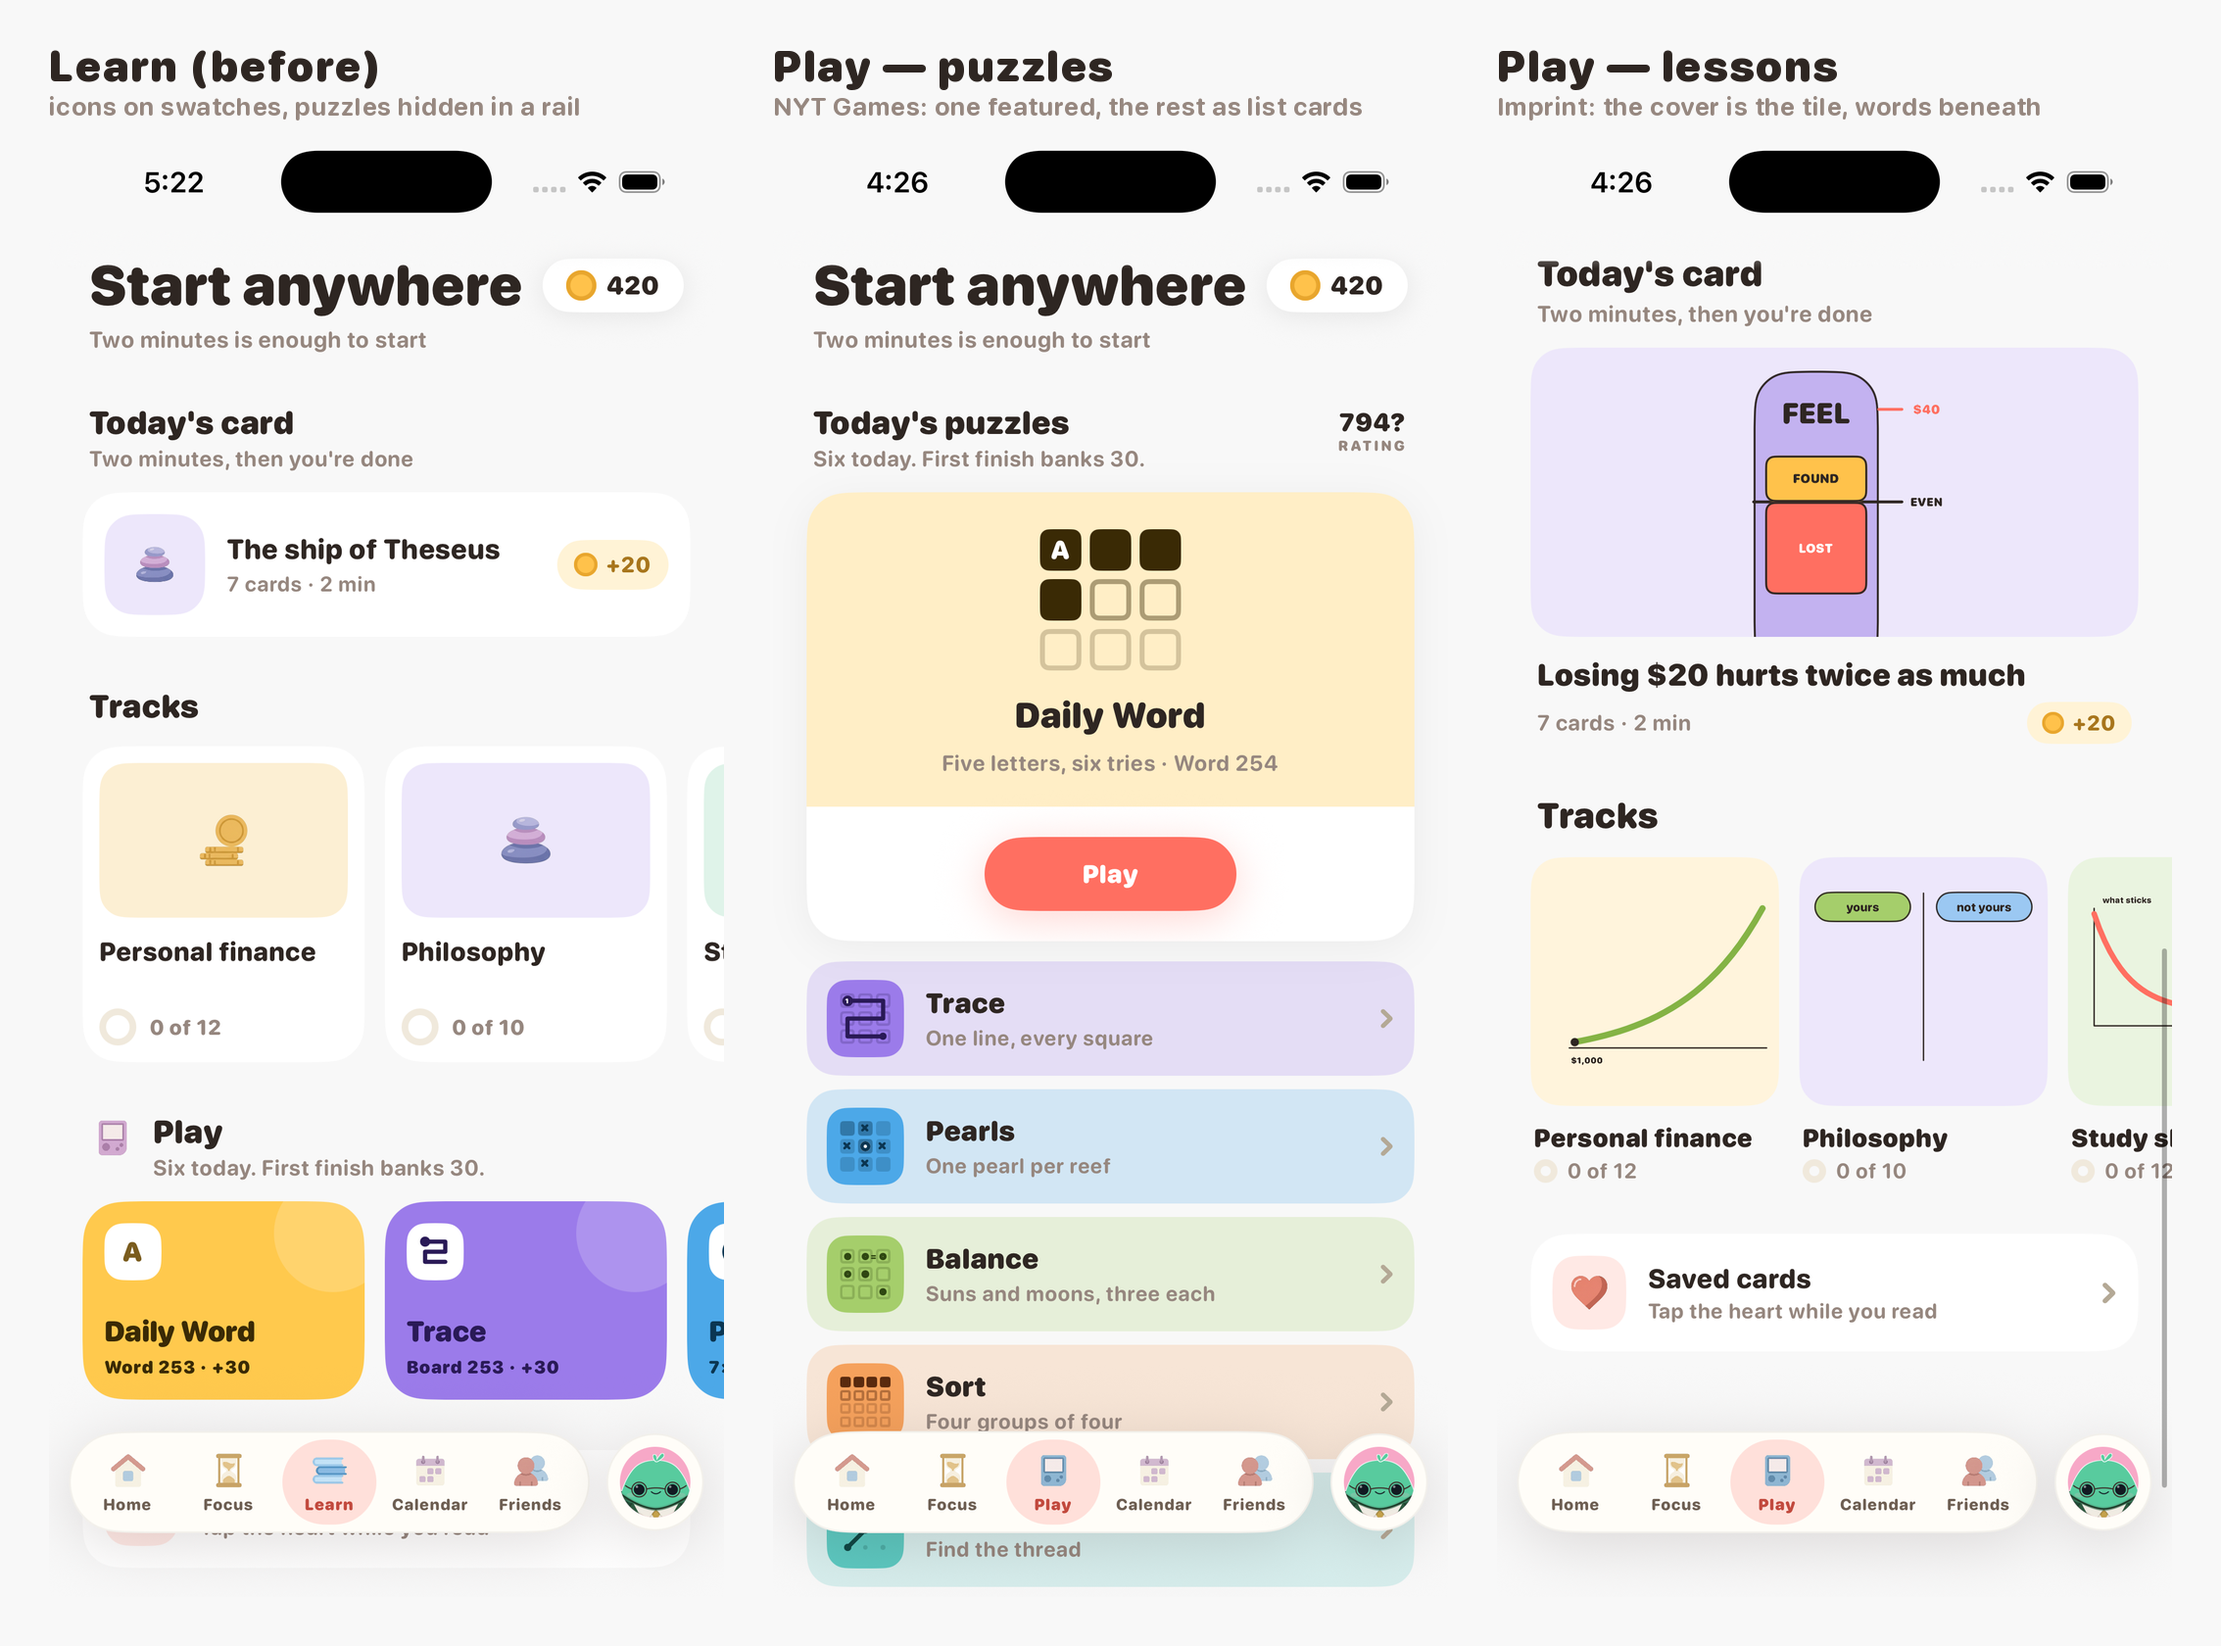
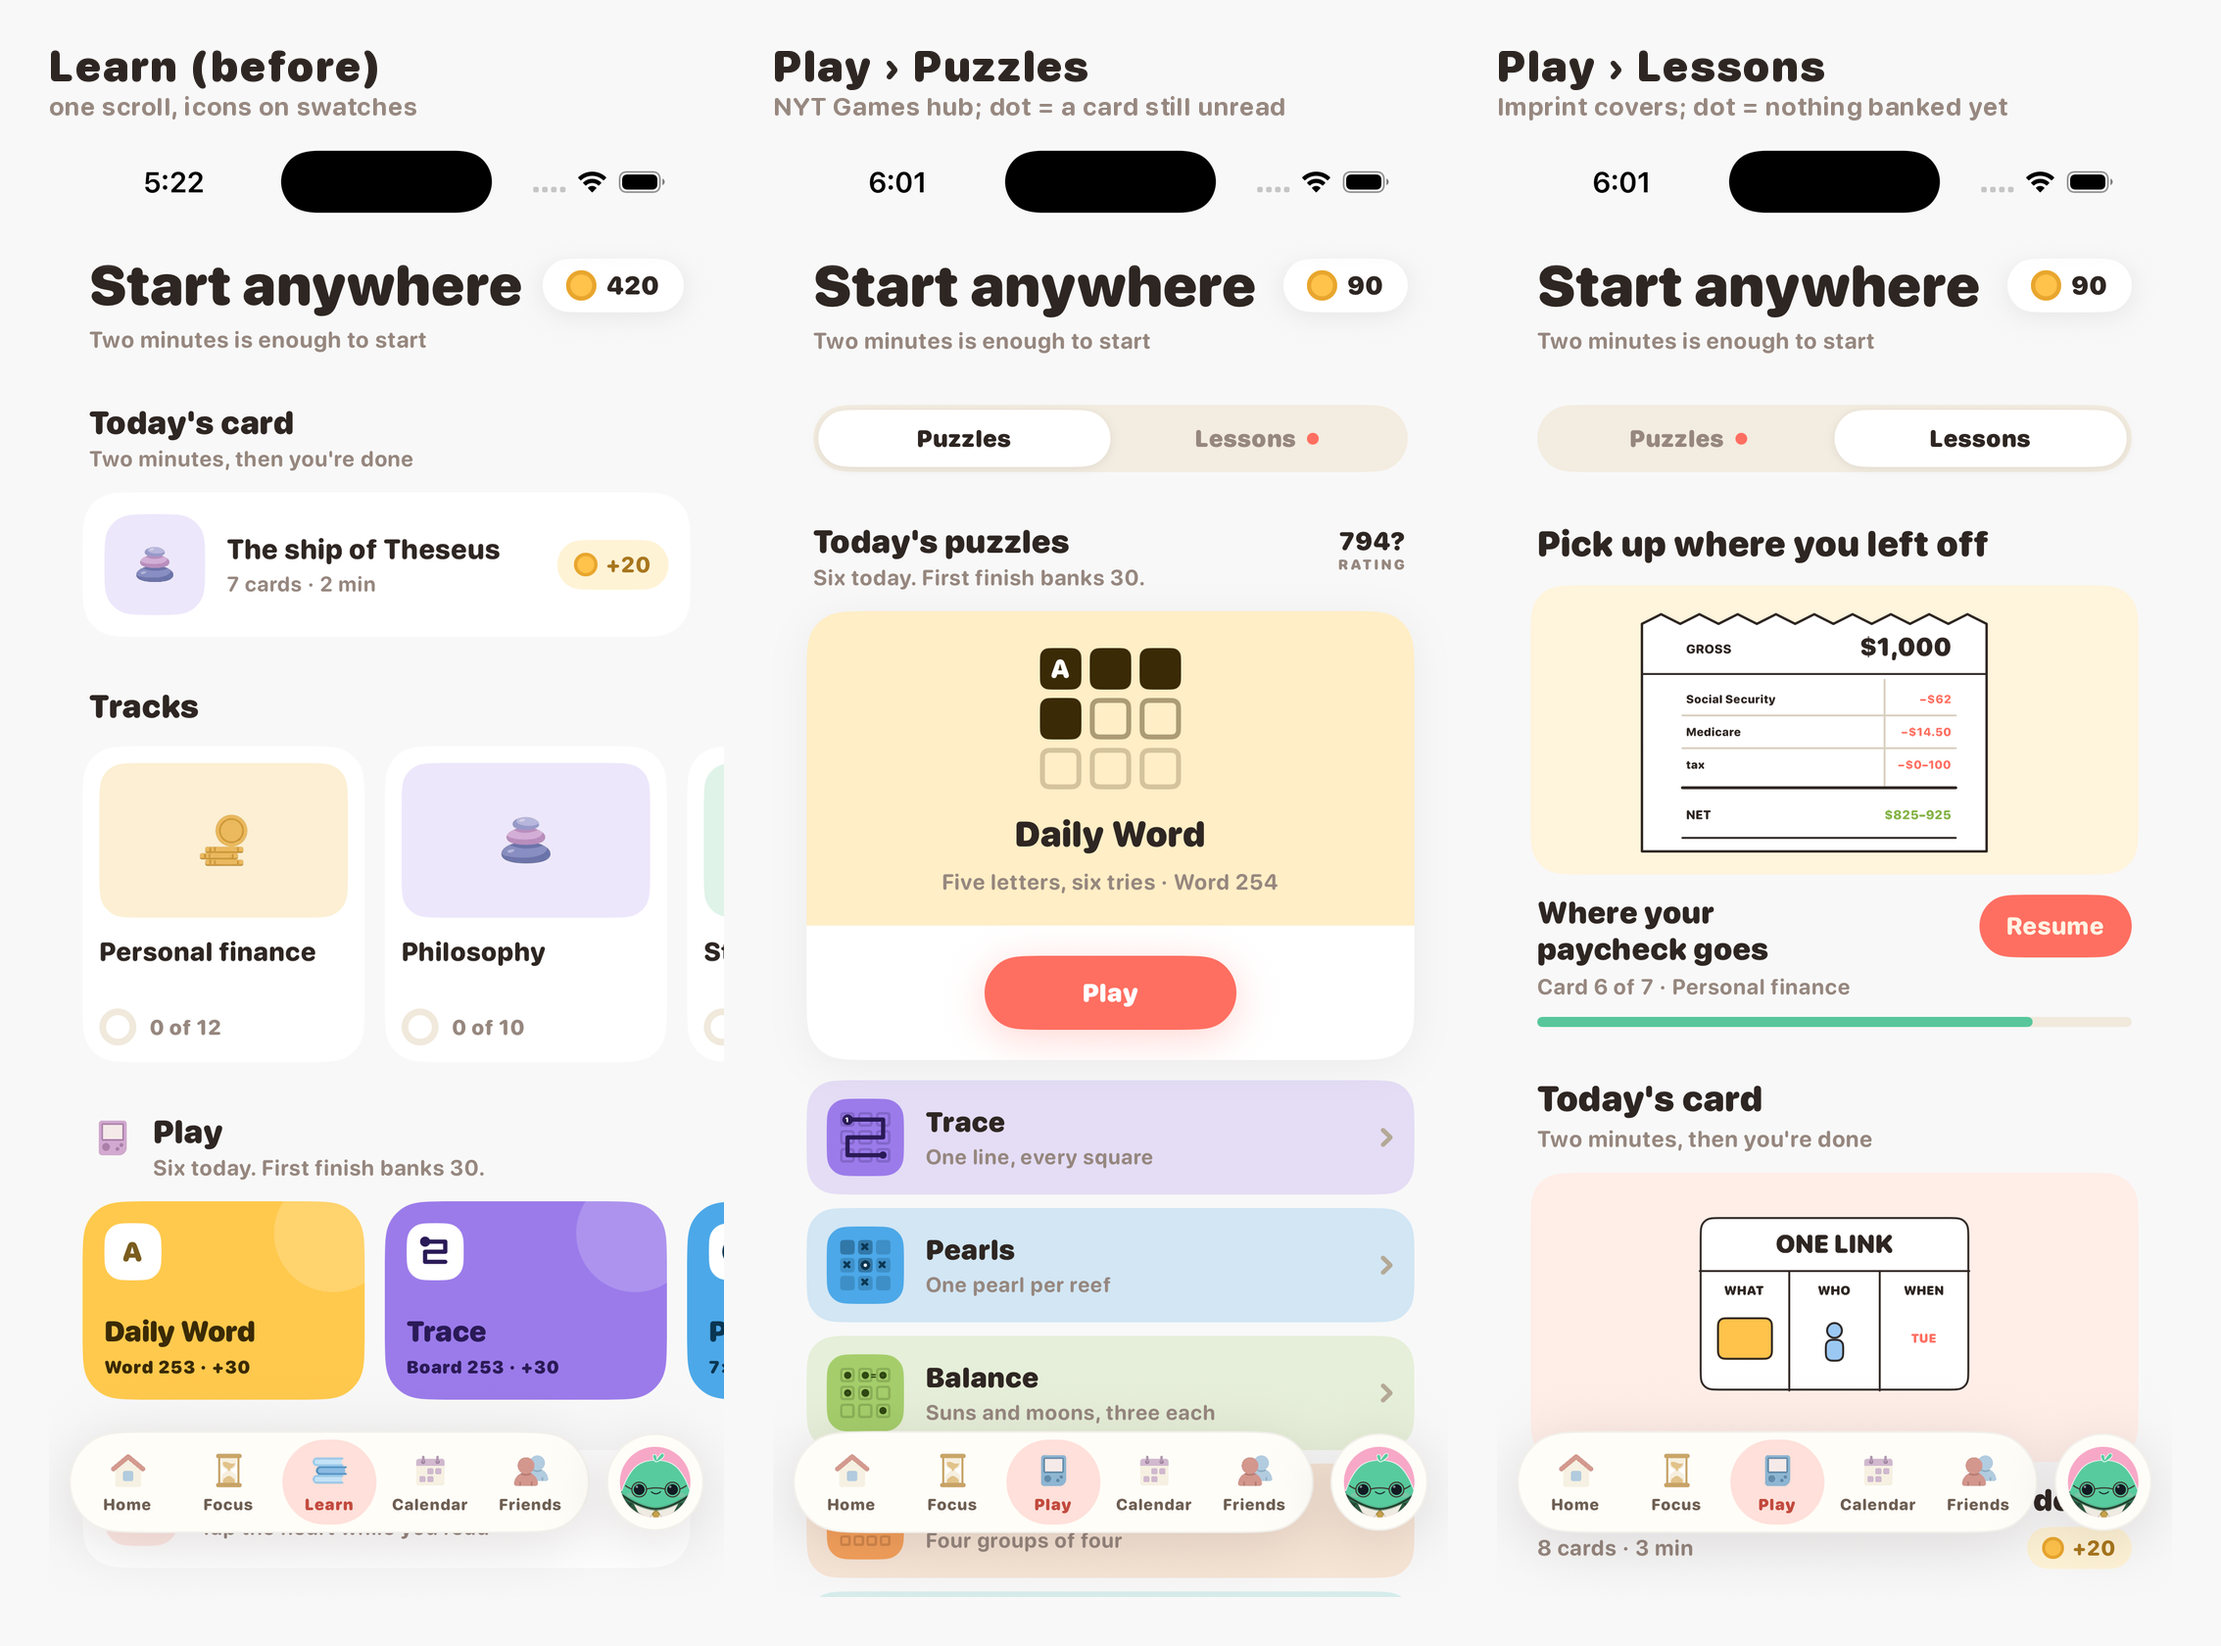
Play splits into Puzzles and Lessons, with a dot for whichever is still open
George: "do we not have a part for them to select whether play or learn?" There
was not — Play was one scroll, puzzles first, and a lesson-minded student passed
600pt of puzzles to reach today's card every time. A Puzzles / Lessons switch now
sits under the header: the Calendar's Week / Month control one size up, a sunk
track with the chosen half lifted onto card white. It remembers the last choice
and defaults to Puzzles for a new student. A coral dot on the other half means
its daily thing is still open — nothing banked, or the card unread — so neither
ritual disappears behind the switch. The segments are the nouns for the content
rather than Play / Learn, since the tab already says Play.

Found on the way: todaysCard seeded on String.hashValue, which Swift randomises
per process, so "today's card" was a different card on every launch. It sums
the day's scalars now and holds all day. And the shop's grid cards tell
VoiceOver kin or scene, which the KIN / SCENE tag had said to sighted eyes only.

test/ios-flows.sh: the lesson flow lands on the Lessons half first; shopshort
prefers an unaffordable kin (a sheet, which stays) over a scene (a 2.4s toast,
which one describe-all under load can miss) and asserts by polling.

diff --git a/ios/Sources/LearnView.swift b/ios/Sources/LearnView.swift
@@ -23,6 +23,16 @@ struct ReadingRequest: Identifiable, Equatable {
 struct LearnView: View {
     @EnvironmentObject var state: AppState
 
+    /// Which half of the tab is showing. Remembered, so a student who comes for
+    /// the lessons lands on the lessons — the one scroll this replaced put 600pt
+    /// of puzzles between them and today's card every single time.
+    @AppStorage("play.half") private var halfRaw = Half.puzzles.rawValue
+    private var half: Half { Half(rawValue: halfRaw) ?? .puzzles }
+    enum Half: String, CaseIterable {
+        case puzzles, lessons
+        var label: String { self == .puzzles ? "Puzzles" : "Lessons" }
+    }
+
     @State private var previewing: Lesson?
     /// Set by the preview sheet's Start, read once the sheet has finished dismissing.
     /// Presenting a cover while a sheet is still on screen drops the cover.
@@ -35,16 +45,20 @@ struct LearnView: View {
                 VStack(alignment: .leading, spacing: 30) {
                     header
 
-                    // First since 2026-09-10, when the tab became Play. The six
-                    // puzzles used to sit fifth, in a rail that hid four of them, under
-                    // a header that said Play inside a tab that said Learn. The
-                    // retention evidence is theirs (GAMES-PLAN.md §2), so they lead;
-                    // the lessons follow in the order they always had (PLAY-TAB.md).
+                    halfSwitch
+
+                    // Two halves behind one switch (2026-09-11). They were one scroll,
+                    // puzzles first — the retention evidence is theirs (GAMES-PLAN.md
+                    // §2) — but a lesson-minded student then scrolled past every puzzle
+                    // to reach today's card. Each half owns the screen now, and the
+                    // switch's dot says when the other half's daily thing is still open.
+                    if half == .puzzles {
                     VStack(alignment: .leading, spacing: 12) {
                         puzzlesTitle
                         puzzleHero
                         puzzleList
                     }
+                    } else {
 
                     if let cont = state.continueLesson {
                         VStack(alignment: .leading, spacing: 12) {
@@ -78,8 +92,10 @@ struct LearnView: View {
                     }
 
                     savedRow
+                    }
                 }
                 .padding(.top, 4)
+                .animation(.easeInOut(duration: 0.18), value: halfRaw)
                 .padding(.bottom, Theme.tabClearance)
             }
             .background(Theme.paper)
@@ -191,6 +207,50 @@ struct LearnView: View {
             }
         }
         .padding(.horizontal, 24)
+    }
+
+    // MARK: - Switch
+
+    /// The Calendar's Week / Month switch, one size up: a sunk track, the chosen
+    /// half lifted onto card white. A coral dot on the *other* half means its daily
+    /// thing is still open — the card unread, or nothing banked yet — so neither
+    /// ritual disappears behind the switch.
+    private var halfSwitch: some View {
+        HStack(spacing: 0) {
+            ForEach(Half.allCases, id: \.self) { h in segment(h) }
+        }
+        .padding(3)
+        .background(Capsule().fill(Theme.paperSunk))
+        .padding(.horizontal, 24)
+    }
+
+    private func segment(_ h: Half) -> some View {
+        let on = h == half
+        let open = h == .puzzles ? !state.playClaimedToday : !state.lessonDoneToday
+        return HStack(spacing: 6) {
+            Text(h.label)
+                .font(Theme.font(14, .black))
+                .foregroundStyle(on ? Theme.ink : Theme.muted)
+            if open && !on {
+                Circle().fill(Theme.coral).frame(width: 7, height: 7)
+            }
+        }
+        .frame(maxWidth: .infinity)
+        .frame(height: 34)
+        .background(
+            Capsule()
+                .fill(on ? Theme.card : .clear)
+                .shadow(color: on ? Theme.hex(0x2E2622).opacity(0.10) : .clear, radius: 3, y: 1)
+        )
+        .contentShape(Capsule())
+        .onTapGesture {
+            guard !on else { return }
+            UISelectionFeedbackGenerator().selectionChanged()
+            halfRaw = h.rawValue
+        }
+        .accessibilityElement(children: .ignore)
+        .accessibilityLabel(open && !on ? "\(h.label), something still open today" : h.label)
+        .accessibilityAddTraits(on ? [.isSelected, .isButton] : .isButton)
     }
 
     // MARK: - Continue
@@ -610,7 +670,10 @@ struct LearnView: View {
     private var todaysCard: Lesson? {
         let open = Catalog.lessons.filter { !state.completedLessons.contains($0.id) }
         guard !open.isEmpty else { return nil }
-        let seed = abs(state.game.effectiveDay.raw.hashValue)
+        // Not `hashValue`: Swift seeds String hashing per process, so today's card
+        // was a different card on every launch. Summing the scalars is the same
+        // number all day, which is the whole meaning of "today's".
+        let seed = state.game.effectiveDay.raw.unicodeScalars.reduce(0) { ($0 &* 31 &+ Int($1.value)) & 0xFFFFFF }
         let pick = open[seed % open.count]
         // Don't offer the same thing twice on one screen.
         if pick.id == state.continueLesson?.lesson.id

diff --git a/ios/Sources/KinShopView.swift b/ios/Sources/KinShopView.swift
@@ -772,10 +772,17 @@ private struct PickCard: View {
 
     /// The solid-versus-outline badge is the only thing on the card that says whether
     /// you can buy it, and a fill is not a thing VoiceOver reads. It says so here.
+    /// The kind is read too — the KIN / SCENE tag is the one thing that separates two
+    /// pictures of a kin in a tank, and it was sighted-only.
     private var axLabel: String {
+        let kind: String
+        switch pick.kind {
+        case .kin: kind = "kin"
+        case .scene: kind = "scene"
+        }
         let money = "\(pick.price) coins, down from \(pick.fullPrice)"
         let can = affordable ? "You can afford it." : ""
-        return [held ? "\(pick.name), held." : "\(pick.name).", "\(money).", can]
+        return [held ? "\(pick.name), \(kind), held." : "\(pick.name), \(kind).", "\(money).", can]
             .filter { !$0.isEmpty }.joined(separator: " ")
     }
 

diff --git a/ios/Sources/Core/GameState.swift b/ios/Sources/Core/GameState.swift
@@ -874,6 +874,12 @@ struct GameState: Codable, Equatable {
 
     var playClaimedToday: Bool { playBanked(on: effectiveDay) != nil }
 
+    /// A lesson finished today. The Play tab's switch marks whichever half still
+    /// has its daily thing open, and this is the lesson half's answer.
+    var lessonDoneToday: Bool {
+        ledger.entries.contains { $0.reason == .lesson && $0.day == effectiveDay }
+    }
+
     /// Posts one game's line for `day`, paid only while the pool is open. Returns
     /// what it paid. A key already posted pays nothing and changes nothing.
     private mutating func postPlay(_ reason: CoinReason, key: String, day: DayKey, now: Date) -> Int {

diff --git a/ios/Sources/AppState.swift b/ios/Sources/AppState.swift
@@ -200,6 +200,7 @@ final class AppState: ObservableObject {
     var firstRunOffersDone: Bool { game.firstRunOffersDone }
     var lessonsThisMonth: Int { game.lessonsThisMonth() }
     var puzzlesThisMonth: Int { game.puzzlesThisMonth() }
+    var lessonDoneToday: Bool { game.lessonDoneToday }
     var sceneID: String { game.sceneID }
     var ownedScenes: Set<String> { game.ownedScenes }
     var templates: [TaskTemplate] { game.templates }

diff --git a/design/PLAY-TAB.md b/design/PLAY-TAB.md
@@ -78,3 +78,24 @@ opposites; that is a clean story to tell.
 Coins (one daily pool, first finish banks 30; a card pays 20 on its own), the games
 themselves, the lessons, routes, the reader. `LearnRoute`, `LearnView`, and the
 `learn-root` flow step keep their names; renaming internals buys nothing.
+
+## 2026-09-11: dressed, then split
+
+**Dressed (861efef).** George: "make this look a lot nicer — copy Imprint for the
+lessons and another app from Mobbin for the games." The games took the NYT Games hub's
+shape (one featured with its board, a tagline and a Play button; the rest as list cards
+with a badge, a name and a tagline). The lessons took Imprint's grammar (the cover is
+the tile, words beneath in plain type; the track rail shows the next lesson's cover).
+
+**Split.** George: "do we not have a part for them to select whether play or learn?"
+There was not — it was one scroll, and a lesson-minded student passed 600pt of puzzles
+to reach today's card every time. Now a **Puzzles / Lessons** switch sits under the
+header (the Calendar's Week / Month control, one size up). It remembers the last choice
+(`@AppStorage("play.half")`), defaulting to Puzzles for a new student. A coral dot on
+the *other* half means its daily thing is still open — nothing banked, or the card
+unread — so neither ritual vanishes behind the switch. The segments are the nouns for
+the content, not "Play / Learn": the tab already says Play.
+
+Found on the way: `todaysCard` seeded on `String.hashValue`, which Swift randomises per
+process, so "today's card" was a different card on every launch. It sums the day's
+scalars now and holds all day.
